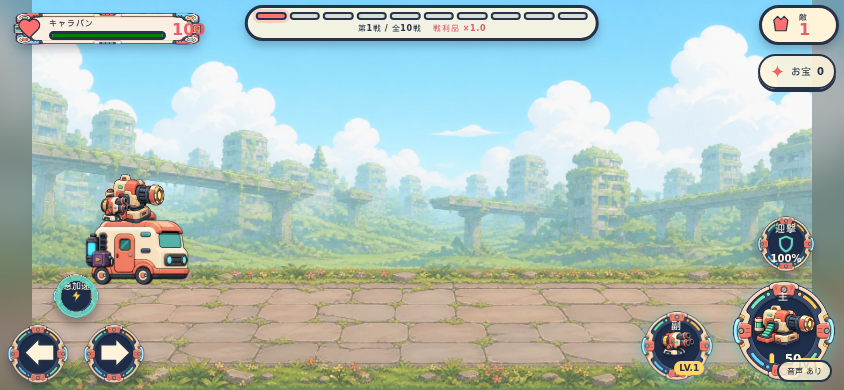
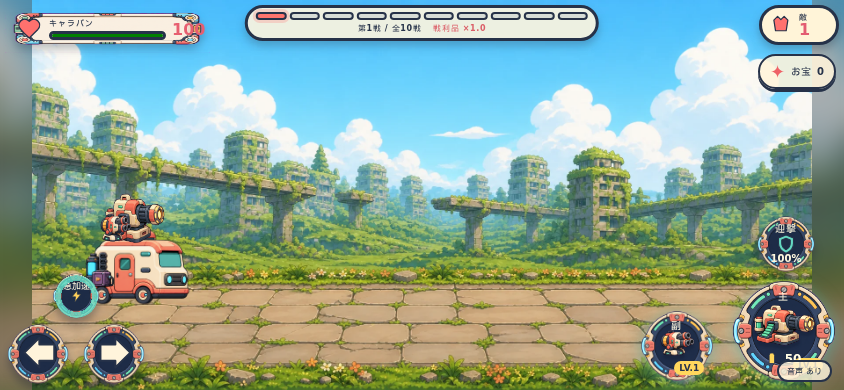
art: restore kawaii stage direction

diff --git a/tests/e2e/combat.spec.ts b/tests/e2e/combat.spec.ts
@@ -249,6 +249,7 @@ for (const viewport of [
   { width: 1920, height: 1080 },
   { width: 1440, height: 900 },
   { width: 1280, height: 720 },
+  { width: 1108, height: 586 },
   { width: 1024, height: 768 },
   { width: 932, height: 430 },
   { width: 844, height: 390 },
@@ -276,7 +277,7 @@ for (const viewport of [
     expect(box!.y).toBeCloseTo((viewport.height - box!.height) / 2, 0);
     if (
       process.env.CAPTURE_LAYOUT_REVIEW &&
-      [1920, 1024, 844].includes(viewport.width)
+      [1920, 1108, 1024, 844].includes(viewport.width)
     ) {
       await page.screenshot({
         path: `artifacts/ui/review/combat_stage_${viewport.width}x${viewport.height}_v001.png`,

diff --git a/src/app/GameApp.tsx b/src/app/GameApp.tsx
@@ -57,7 +57,7 @@ import {
 } from '../game/progression/metaProgression';
 
 const UI_ASSET_STYLES = {
-  '--world-background-image': `url("${runtimeAssetUrl('assets/world/env_background_integrated_2x1_v003.webp')}")`,
+  '--world-background-image': `url("${runtimeAssetUrl('assets/world/env_background_integrated_2x1_v004.webp')}")`,
   '--hud-ornament-image': `url("${runtimeAssetUrl('assets/ui/ui_hud_ornament_v001.png')}")`,
   '--control-frame-image': `url("${runtimeAssetUrl('assets/ui/ui_control_frame_v001.png')}")`,
   '--battle-clear-frame-image': `url("${runtimeAssetUrl('assets/ui/ui_battle_clear_frame_v001.png')}")`,

diff --git a/src/render/GameRenderer.ts b/src/render/GameRenderer.ts
@@ -58,7 +58,7 @@ const PERFORMANCE_STRESS_ENEMY_PROJECTILES = 32;
 const PERFORMANCE_STRESS_EFFECTS = 48;
 const WORLD_ART = {
   background: runtimeAssetUrl(
-    'assets/world/env_background_integrated_2x1_v003.webp',
+    'assets/world/env_background_integrated_2x1_v004.webp',
   ),
 } as const;
 const ENEMY_COLORS: Record<EnemyTypeId, string> = {
@@ -2693,7 +2693,7 @@ export class GameRenderer {
   }
 
   private get groundY(): number {
-    return this.viewportHeight * 0.73;
+    return this.viewportHeight * 0.78;
   }
 
   private readonly resize = (): void => {

diff --git a/docs/assets/g0-manifest.md b/docs/assets/g0-manifest.md
@@ -22,18 +22,19 @@ G0で生成・採用・却下した素材の来歴を記録する。生成開始
 
 1候補につき1行を追加する。
 
-| Asset ID                             | Class     | Status       | File                                                            | Service / Model                               | Generated at              | Prompt source                                               | Input references                             | License / Terms checked                                                                                                                                                | Decision                                                        | Operator     |
-| ------------------------------------ | --------- | ------------ | --------------------------------------------------------------- | --------------------------------------------- | ------------------------- | ----------------------------------------------------------- | -------------------------------------------- | ---------------------------------------------------------------------------------------------------------------------------------------------------------------------- | --------------------------------------------------------------- | ------------ |
-| `REF_STYLE_001_CANDIDATE_V001`       | `CONCEPT` | `superseded` | `artifacts/g0/style-reference/ref_style_001_candidate_v001.png` | OpenAI built-in `image_gen`（model ID非公開） | 2026-08-10T21:41:05+09:00 | `artifacts/g0/style-reference/ref_style_001_prompt.md`      | 初稿を編集                                   | 2026-08-10に[公式Image Generationドキュメント](https://developers.openai.com/api/docs/guides/image-generation)を確認。Output利用はユーザーへ適用される契約・法令に従う | 敵車両方針をMonsterへ変更したためV2で置換                       | Codex        |
-| `REF_STYLE_001_CANDIDATE_V002`       | `CONCEPT` | `accepted`   | `artifacts/g0/style-reference/ref_style_001_candidate_v002.png` | OpenAI built-in `image_gen`（model ID非公開） | 2026-08-10T21:52:19+09:00 | `artifacts/g0/style-reference/ref_style_001_prompt_v002.md` | V1をStyle参照                                | 2026-08-10に[公式Image Generationドキュメント](https://developers.openai.com/api/docs/guides/image-generation)を確認。Output利用はユーザーへ適用される契約・法令に従う | Modular Caravan、Monster、VFX、Stage、HUDのSTYLE LOCKとして採用 | Codex / User |
-| `VEH_PLAYER_BASE_V001`               | `MODEL`   | `superseded` | `artifacts/g0/masters/veh_player_base_v001_chroma.png`          | OpenAI built-in `image_gen`（model ID非公開） | 2026-08-10T23:21:27+09:00 | `artifacts/g0/world_asset_prompts.md`                       | `REF_STYLE_001`                              | 同上                                                                                                                                                                   | Motion Sheet v002へ置換                                         | Codex        |
-| `ENM_BASIC_V001`                     | `MODEL`   | `superseded` | `artifacts/g0/masters/enm_basic_v001_chroma.png`                | OpenAI built-in `image_gen`（model ID非公開） | 2026-08-10T23:22:04+09:00 | `artifacts/g0/world_asset_prompts.md`                       | `REF_STYLE_001`                              | 同上                                                                                                                                                                   | Motion Sheet v002へ置換                                         | Codex        |
-| `ENV_BACKGROUND_SUNNY_V001`          | `MODEL`   | `superseded` | `artifacts/g0/masters/env_background_sunny_highway_v001.png`    | OpenAI built-in `image_gen`（model ID非公開） | 2026-08-10T23:22:36+09:00 | `artifacts/g0/world_asset_prompts.md`                       | `REF_STYLE_001`                              | 同上                                                                                                                                                                   | 固定2:1統合背景V002へ置換                                       | Codex        |
-| `ENV_ROAD_V001`                      | `MODEL`   | `superseded` | `artifacts/g0/masters/env_road_v001.png`                        | OpenAI built-in `image_gen`（model ID非公開） | 2026-08-10T23:23:32+09:00 | `artifacts/g0/world_asset_prompts.md`                       | `REF_STYLE_001`                              | 同上                                                                                                                                                                   | 固定2:1統合背景V002へ統合                                       | Codex        |
-| `ENV_BACKGROUND_INTEGRATED_2X1_V002` | `MODEL`   | `rejected`   | `artifacts/g0/masters/env_background_integrated_2x1_v002.png`   | OpenAI built-in `image_gen`（model ID非公開） | 2026-08-11T20:00:00+09:00 | `artifacts/g0/world_asset_prompts.md`                       | なし                                         | 同上                                                                                                                                                                   | 和風建築・高彩度化により既存世界観から逸脱                      | Codex / User |
-| `ENV_BACKGROUND_INTEGRATED_2X1_V003` | `MODEL`   | `accepted`   | `artifacts/g0/masters/env_background_integrated_2x1_v003.png`   | OpenAI built-in `image_gen`（model ID非公開） | 2026-08-11T20:10:00+09:00 | `artifacts/g0/world_asset_prompts.md`                       | `ENV_BACKGROUND_SUNNY_V001`, `ENV_ROAD_V001` | 同上                                                                                                                                                                   | 元背景の世界・配色・建築を固定し、道路だけを2:1へ統合           | Codex / User |
-| `ENM_RUSHER_V001`                    | `MODEL`   | `superseded` | `artifacts/g0/masters/enm_rusher_v001_chroma.png`               | OpenAI built-in `image_gen`（model ID非公開） | 2026-08-10T23:31:20+09:00 | `artifacts/g0/world_asset_prompts.md`                       | `REF_STYLE_001`                              | 同上                                                                                                                                                                   | Motion Sheet v002へ置換                                         | Codex        |
-| `ENM_HEAVY_V001`                     | `MODEL`   | `superseded` | `artifacts/g0/masters/enm_heavy_v001_chroma.png`                | OpenAI built-in `image_gen`（model ID非公開） | 2026-08-10T23:32:05+09:00 | `artifacts/g0/world_asset_prompts.md`                       | `REF_STYLE_001`                              | 同上                                                                                                                                                                   | 岩塊表現を廃止しMotion Sheet v002へ置換                         | Codex        |
-| `ENM_ARTILLERY_V001`                 | `MODEL`   | `superseded` | `artifacts/g0/masters/enm_artillery_v001_chroma.png`            | OpenAI built-in `image_gen`（model ID非公開） | 2026-08-10T23:32:47+09:00 | `artifacts/g0/world_asset_prompts.md`                       | `REF_STYLE_001`                              | 同上                                                                                                                                                                   | Motion Sheet v002へ置換                                         | Codex        |
-| `ENM_BOMBER_V001`                    | `MODEL`   | `superseded` | `artifacts/g0/masters/enm_bomber_v001_chroma.png`               | OpenAI built-in `image_gen`（model ID非公開） | 2026-08-10T23:33:23+09:00 | `artifacts/g0/world_asset_prompts.md`                       | `REF_STYLE_001`                              | 同上                                                                                                                                                                   | Motion Sheet v002へ置換                                         | Codex        |
-| `ENM_KAWAII_FORTRESS_V001`           | `MODEL`   | `superseded` | `artifacts/g0/masters/enm_kawaii_fortress_v001_chroma.png`      | OpenAI built-in `image_gen`（model ID非公開） | 2026-08-10T23:34:16+09:00 | `artifacts/g0/world_asset_prompts.md`                       | `REF_STYLE_001`                              | 同上                                                                                                                                                                   | 岩・城塞表現を廃止しMotion Sheet v002へ置換                     | Codex        |
+| Asset ID                             | Class     | Status       | File                                                            | Service / Model                               | Generated at              | Prompt source                                               | Input references                                                     | License / Terms checked                                                                                                                                                | Decision                                                        | Operator     |
+| ------------------------------------ | --------- | ------------ | --------------------------------------------------------------- | --------------------------------------------- | ------------------------- | ----------------------------------------------------------- | -------------------------------------------------------------------- | ---------------------------------------------------------------------------------------------------------------------------------------------------------------------- | --------------------------------------------------------------- | ------------ |
+| `REF_STYLE_001_CANDIDATE_V001`       | `CONCEPT` | `superseded` | `artifacts/g0/style-reference/ref_style_001_candidate_v001.png` | OpenAI built-in `image_gen`（model ID非公開） | 2026-08-10T21:41:05+09:00 | `artifacts/g0/style-reference/ref_style_001_prompt.md`      | 初稿を編集                                                           | 2026-08-10に[公式Image Generationドキュメント](https://developers.openai.com/api/docs/guides/image-generation)を確認。Output利用はユーザーへ適用される契約・法令に従う | 敵車両方針をMonsterへ変更したためV2で置換                       | Codex        |
+| `REF_STYLE_001_CANDIDATE_V002`       | `CONCEPT` | `accepted`   | `artifacts/g0/style-reference/ref_style_001_candidate_v002.png` | OpenAI built-in `image_gen`（model ID非公開） | 2026-08-10T21:52:19+09:00 | `artifacts/g0/style-reference/ref_style_001_prompt_v002.md` | V1をStyle参照                                                        | 2026-08-10に[公式Image Generationドキュメント](https://developers.openai.com/api/docs/guides/image-generation)を確認。Output利用はユーザーへ適用される契約・法令に従う | Modular Caravan、Monster、VFX、Stage、HUDのSTYLE LOCKとして採用 | Codex / User |
+| `VEH_PLAYER_BASE_V001`               | `MODEL`   | `superseded` | `artifacts/g0/masters/veh_player_base_v001_chroma.png`          | OpenAI built-in `image_gen`（model ID非公開） | 2026-08-10T23:21:27+09:00 | `artifacts/g0/world_asset_prompts.md`                       | `REF_STYLE_001`                                                      | 同上                                                                                                                                                                   | Motion Sheet v002へ置換                                         | Codex        |
+| `ENM_BASIC_V001`                     | `MODEL`   | `superseded` | `artifacts/g0/masters/enm_basic_v001_chroma.png`                | OpenAI built-in `image_gen`（model ID非公開） | 2026-08-10T23:22:04+09:00 | `artifacts/g0/world_asset_prompts.md`                       | `REF_STYLE_001`                                                      | 同上                                                                                                                                                                   | Motion Sheet v002へ置換                                         | Codex        |
+| `ENV_BACKGROUND_SUNNY_V001`          | `MODEL`   | `superseded` | `artifacts/g0/masters/env_background_sunny_highway_v001.png`    | OpenAI built-in `image_gen`（model ID非公開） | 2026-08-10T23:22:36+09:00 | `artifacts/g0/world_asset_prompts.md`                       | `REF_STYLE_001`                                                      | 同上                                                                                                                                                                   | 固定2:1統合背景V002へ置換                                       | Codex        |
+| `ENV_ROAD_V001`                      | `MODEL`   | `superseded` | `artifacts/g0/masters/env_road_v001.png`                        | OpenAI built-in `image_gen`（model ID非公開） | 2026-08-10T23:23:32+09:00 | `artifacts/g0/world_asset_prompts.md`                       | `REF_STYLE_001`                                                      | 同上                                                                                                                                                                   | 固定2:1統合背景V002へ統合                                       | Codex        |
+| `ENV_BACKGROUND_INTEGRATED_2X1_V002` | `MODEL`   | `rejected`   | `artifacts/g0/masters/env_background_integrated_2x1_v002.png`   | OpenAI built-in `image_gen`（model ID非公開） | 2026-08-11T20:00:00+09:00 | `artifacts/g0/world_asset_prompts.md`                       | なし                                                                 | 同上                                                                                                                                                                   | 和風建築・高彩度化により既存世界観から逸脱                      | Codex / User |
+| `ENV_BACKGROUND_INTEGRATED_2X1_V003` | `MODEL`   | `superseded` | `artifacts/g0/masters/env_background_integrated_2x1_v003.png`   | OpenAI built-in `image_gen`（model ID非公開） | 2026-08-11T20:10:00+09:00 | `artifacts/g0/world_asset_prompts.md`                       | `ENV_BACKGROUND_SUNNY_V001`, `ENV_ROAD_V001`                         | 同上                                                                                                                                                                   | 淡い霞と弱い形状差によりKawaii表現が不足しV004へ置換            | Codex / User |
+| `ENV_BACKGROUND_INTEGRATED_2X1_V004` | `MODEL`   | `accepted`   | `artifacts/g0/masters/env_background_integrated_2x1_v004.png`   | OpenAI built-in `image_gen`（model ID非公開） | 2026-08-11T20:23:00+09:00 | `artifacts/g0/world_asset_prompts.md`                       | `ENV_BACKGROUND_INTEGRATED_2X1_V003`, `REF_STYLE_001_CANDIDATE_V002` | 同上                                                                                                                                                                   | 世界・構図を固定し、承認Styleの丸い形・配色・セル影を復元       | Codex / User |
+| `ENM_RUSHER_V001`                    | `MODEL`   | `superseded` | `artifacts/g0/masters/enm_rusher_v001_chroma.png`               | OpenAI built-in `image_gen`（model ID非公開） | 2026-08-10T23:31:20+09:00 | `artifacts/g0/world_asset_prompts.md`                       | `REF_STYLE_001`                                                      | 同上                                                                                                                                                                   | Motion Sheet v002へ置換                                         | Codex        |
+| `ENM_HEAVY_V001`                     | `MODEL`   | `superseded` | `artifacts/g0/masters/enm_heavy_v001_chroma.png`                | OpenAI built-in `image_gen`（model ID非公開） | 2026-08-10T23:32:05+09:00 | `artifacts/g0/world_asset_prompts.md`                       | `REF_STYLE_001`                                                      | 同上                                                                                                                                                                   | 岩塊表現を廃止しMotion Sheet v002へ置換                         | Codex        |
+| `ENM_ARTILLERY_V001`                 | `MODEL`   | `superseded` | `artifacts/g0/masters/enm_artillery_v001_chroma.png`            | OpenAI built-in `image_gen`（model ID非公開） | 2026-08-10T23:32:47+09:00 | `artifacts/g0/world_asset_prompts.md`                       | `REF_STYLE_001`                                                      | 同上                                                                                                                                                                   | Motion Sheet v002へ置換                                         | Codex        |
+| `ENM_BOMBER_V001`                    | `MODEL`   | `superseded` | `artifacts/g0/masters/enm_bomber_v001_chroma.png`               | OpenAI built-in `image_gen`（model ID非公開） | 2026-08-10T23:33:23+09:00 | `artifacts/g0/world_asset_prompts.md`                       | `REF_STYLE_001`                                                      | 同上                                                                                                                                                                   | Motion Sheet v002へ置換                                         | Codex        |
+| `ENM_KAWAII_FORTRESS_V001`           | `MODEL`   | `superseded` | `artifacts/g0/masters/enm_kawaii_fortress_v001_chroma.png`      | OpenAI built-in `image_gen`（model ID非公開） | 2026-08-10T23:34:16+09:00 | `artifacts/g0/world_asset_prompts.md`                       | `REF_STYLE_001`                                                      | 同上                                                                                                                                                                   | 岩・城塞表現を廃止しMotion Sheet v002へ置換                     | Codex        |

diff --git a/artifacts/g0/world_asset_prompts.md b/artifacts/g0/world_asset_prompts.md
@@ -98,3 +98,22 @@ Hard prohibitions: no Japanese temple, pagoda, castle roof, shrine, torii, or cu
 Avoid: changing the world setting, changing the time of day, adding decorative spectacle, strong shadows, excessive flowers, photorealism, 3D rendering, grimdark elements, seams, bands, separate floating road layer, or mismatched perspective.
 Output intent: one cohesive production background whose world is immediately recognizable as Image 1, with only the necessary road integration from Image 2.
 ```
+
+## Integrated 2:1 Background v004
+
+Generated with the built-in image generation tool on 2026-08-11. Image 1 was
+the V003 edit target and world/composition anchor. Image 2 was the accepted
+G0 Style Reference and was used only as the visual-language lock.
+
+```text
+Use case: stylized-concept
+Asset type: revised 2:1 in-game environment background for Kaboom Caravan
+Input images: Image 1 is the exact edit target and world/composition anchor. Image 2 is the accepted STYLE LOCK reference only. Preserve Image 1's exact 2:1 side-view composition, camera, skyline, abandoned elevated highway ruins, road geometry, horizon, cloud placement, vegetation bands, and empty battlefield. Do not redesign the location. Apply only the visual-language correction described below, using Image 2 as the rendering and palette standard.
+Primary request: Restore the established Kawaii × Armored Warfare world language that became too pale and generic in Image 1. Keep the same sunny reclaimed-highway world, but make the background clearly belong to the same game as Image 2 through rounded chunky shapes, polished Japanese-game 2D cel shading, clean controlled outlines, soft but readable color separation, and cheerful post-apocalyptic environmental storytelling.
+Kawaii correction: Kawaii must come from proportion and shape language, not added mascots or decorative clutter. Slightly round the silhouettes and corners of the concrete ruins and road slabs; make clouds clean, plump and softly segmented; give foliage simplified rounded leaf masses; restore small coral, warm-yellow and cream flowers along the lane edges; use friendly chunky cracks and gentle wear rather than realistic erosion. Preserve the ruins as old elevated highway infrastructure, never temples, castles, fantasy towers, or a new civilization.
+Color palette: soft sky cyan and blue; warm ivory sunlight; fresh mint and yellow-green vegetation; restrained coral and warm-yellow flower accents; muted blue-gray concrete with subtle deep-navy definition. Increase saturation and local contrast moderately compared with Image 1, especially in foreground vegetation and road edges, but keep the background visibly softer and lower contrast than player, monsters, projectiles, and HUD.
+Gameplay lane: preserve a broad quiet horizontal road band across the lower portion. The intended entity contact line is approximately 78 percent of image height, so the road must continue naturally around and below that line. Keep the central combat lane free of props, flags, markers, text, characters, enemies, vehicles, projectiles, VFX, shadows, UI, or focal landmarks.
+Style/medium: polished 2D raster game background; clean cel shading; subtle consistent outlines; rounded readable masses; moderate low-frequency detail; no painterly wash and no photorealism.
+Composition/framing: exact 2:1 landscape, 2048 x 1024 target, fixed side-view gameplay camera, no perspective change, no crop, no letterboxing. Keep important environment content inside the canvas.
+Constraints: Preserve Image 1's world identity and layout. No Japanese architecture, pagodas, shrines, torii, castles, villages, fantasy city, new biome, giant trees, waterfalls, characters, monsters, caravan, HUD, text, letters, numbers, logo, watermark, military grime, grimdark, realistic rust, high-frequency texture, hard black outlines, excessive bloom, or washed-out pastel haze.
+```
